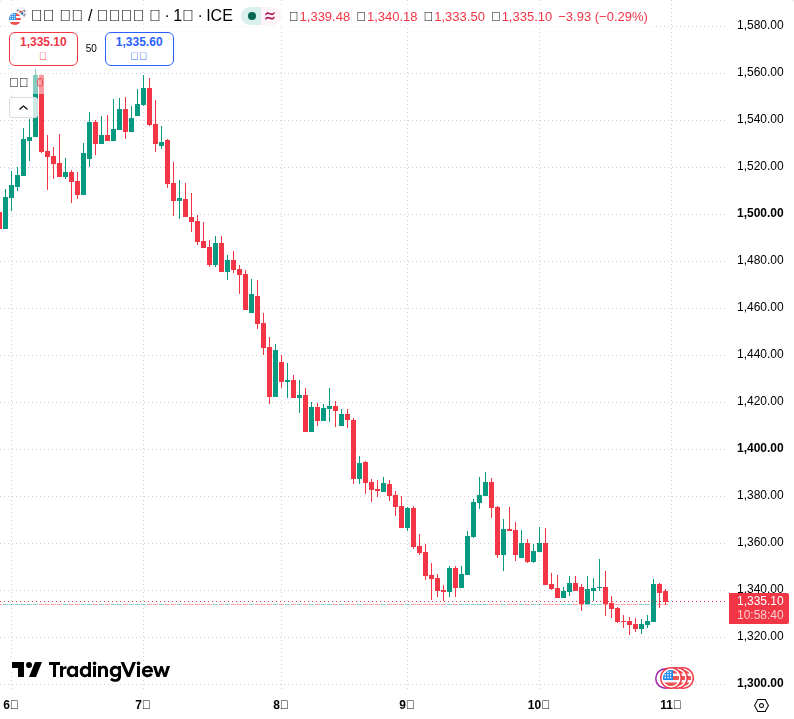
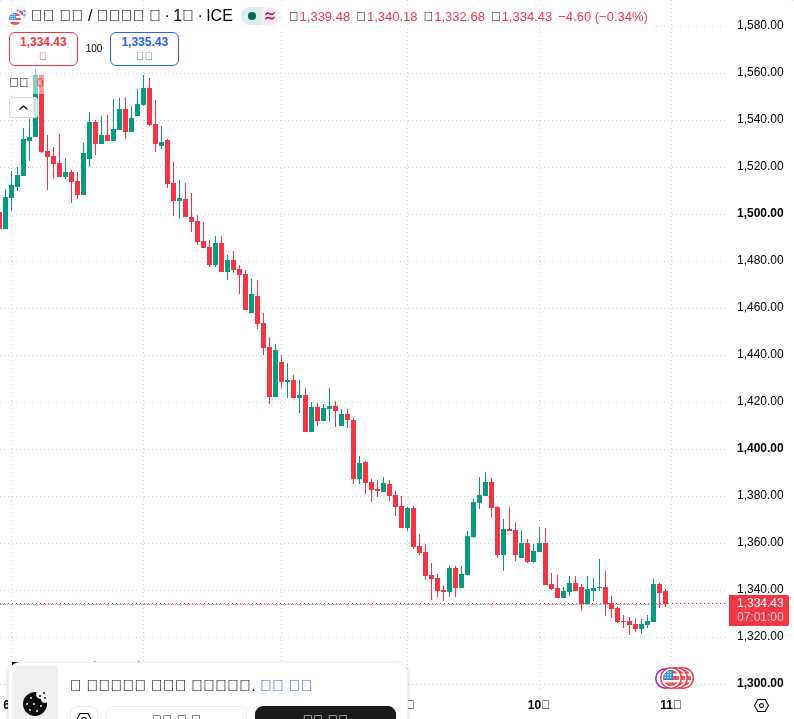
Auto-update blog preview, stock history, and charts [skip ci]

diff --git a/blog_preview.html b/blog_preview.html
@@ -2,7 +2,7 @@
 <html lang="ko">
 <head>
     <meta charset="UTF-8">
-    <title>10월 30일 경제 주요 흐름 및 종목 추천 특징주 분석 - 한미반도체, 삼성SDI, 엔비디아, 테슬라</title>
+    <title>10월 31일 경제 주요 흐름 및 종목 추천 특징주 분석 - 삼성바이오로직스, 삼성SDI, NVIDIA Corporation, Tesla, Inc.</title>
     <style>
         body { font-family: 'Apple SD Gothic Neo', sans-serif; max-width: 800px; margin: 40px auto; padding: 20px; line-height: 1.7; color: #333; }
         .timestamp-badge { background: #f1f3f5; color: #495057; font-size: 13px; padding: 6px 12px; border-radius: 20px; display: inline-block; margin-bottom: 15px; font-weight: bold; border: 1px solid #dee2e6; }
@@ -17,23 +17,23 @@
     </style>
 </head>
 <body>
-    <div class="timestamp-badge">⏱ 업데이트 시각: 2026년 10월 30일 20:01:13 (KST)</div>
+    <div class="timestamp-badge">⏱ 업데이트 시각: 2026년 10월 30일 23:56:27 (KST)</div>
     <h1>📊 자동 생성 블로그 포스팅 미리보기</h1>
     <p>우측 상단의 <b>[본문 복사]</b> 버튼을 누른 뒤 블로그 에디터에 붙여넣으세요!</p>
     <hr>
     
     <h3>📌 포스팅 제목</h3>
-    <div class="title-box">10월 30일 경제 주요 흐름 및 종목 추천 특징주 분석 - 한미반도체, 삼성SDI, 엔비디아, 테슬라</div>
+    <div class="title-box">10월 31일 경제 주요 흐름 및 종목 추천 특징주 분석 - 삼성바이오로직스, 삼성SDI, NVIDIA Corporation, Tesla, Inc.</div>
 
     <h3>📝 본문 텍스트 (차트 및 거시경제 링크 포함)</h3>
     <div class="content-container">
         <button class="copy-btn" onclick="copyContent()">📋 본문 복사</button>
-        <div class="content" id="blog-content">안녕하세요. 요즘 환율이 진짜 자기가 무슨 롤러코스터인 줄 아는지 위아래로 흔들어대서 화면 볼 때마다 멀미가 나는 것 같습니다...<br>주변에 주식 안 하는 친구들은 평화로워 보이는데 저만 매일 계좌 보면서 한숨 쉬는 것 같기도 하고 참 씁쓸하네요.<br>그래도 정신 바짝 차리고 오늘 장 마감한 거 바탕으로 지표 흐름이랑 쓸만한 종목들 싹 정리해왔으니까 같이 한번 살펴보시죠.<br><br>[경제 이슈]<br><br>원화 M2 통화량) https://tradingeconomics.com/south-korea/money-supply-m2<br>한국 경기선행지수 ) https://tradingeconomics.com/south-korea/leading-economic-index<br>달러 M2 통화량) https://tradingeconomics.com/united-states/money-supply-m2<br>미국 경기선행지수 ) https://tradingeconomics.com/united-states/leading-economic-index<br><br>통화량과 경기선행지수는 위 사이트에서 확인 가능합니다. 꾸준히 우상향 추세입니다.<br><br><div class="img-box"><img src="https://dhlee090512-arch.github.io/autoblog/assets/usdkrw_chart.png?t=1793358073" alt="환율 차트"></div><br><br>환율 차트를 보면 최근에 1,320원 선까지 쭈르륵 내려가다가 최근 들어서 다시 살짝 고개를 들면서 1,330원대 중반 부근에서 반등하는 흐름이 나오고 있습니다. 전반적으로 달러 약세 흐름을 타면서 하락세를 그리던 것이 단기 바닥을 찍고 기술적 반등을 시도하는 모양새인데, 연준의 금리 인하 속도 조절에 대한 경계감이랑 환율 당국의 개입 경계 매물 때문에 상단이 꽉 막혀있는 느낌입니다. 당분간은 환율이 1,330원 부근에서 눈치 보기 장세를 이어갈 것 같은데, 환율이 갑자기 튀어 오르면 외국인 수급이 빠져나갈 수 있어서 지수 플레이보다는 개별 종목 위주로 짧게 대응하는 게 유리해 보입니다.<br><br><div class="img-box"><img src="https://dhlee090512-arch.github.io/autoblog/assets/finviz_map.png?t=1793358073" alt="Finviz 섹터 맵"></div><br><br>핀비즈 맵을 확인해보면 테크놀로지 섹터가 전반적으로 아주 처참하게 두들겨 맞은 걸 볼 수 있습니다. 반도체 대장주인 엔비디아를 비롯해서 AMD, 인텔, 마이크론 같은 종목들이 전부 붉은색으로 찐하게 물들면서 조정을 세게 맞았고, 소프트웨어랑 커뮤니케이션 쪽도 구글이나 메타 같은 빅테크들이 약세를 면치 못했습니다. 반면에 헬스케어 섹터의 일라이릴리나 유나이티드헬스 같은 종목들은 초록색 불을 켜며 방어력을 보여줬고, 필수소비재나 일부 에너지 섹터도 소폭 반등하면서 자금이 안전지대로 잠시 대피한 느낌의 장세였습니다.<br><br><br>위 내용을 바탕으로 거시경제 상황을 정리하자면 국내는 통화량이나 경기선행지수가 나쁘지 않게 흘러가고 있지만 환율 변동성이랑 지정학적 리스크 때문에 투자 심리가 썩 좋지는 않은 상태입니다. 미장 역시 AI 고평가 논란이랑 실적 경계감 때문에 기술주들이 대거 조정을 받으면서 시장 전반에 찬물이 끼얹어진 분위기구요. 연준의 정책 방향도 아직 완전히 안심할 단계는 아니라서 무지성으로 비중을 늘리기보다는 다소 방어적인 태세를 유지하는 게 현명할 것 같습니다.<br><br>이럴 때일수록 급등주 쫓아다니다가 고점에 물리기 딱 좋으니까 차트에서 확실하게 바닥을 다지거나 지지 라인을 지켜주는 종목 위주로 짧게 스윙 관점 접근하는 게 마음 편할 것 같아요. 변동성이 워낙 지랄맞아서 손절가 칼같이 잡고 대응하는 트레이딩만이 살길인 것 같습니다.<br><br><br>[특징주 분석]<br><br>1. 한미반도체<br><br>(종목 차트)<br>(종목 트레이딩뷰 url)<br><br>첫 번째 국장 특징주는 한미반도체입니다. 최근에 135만 원대 부근에서 지지를 탄탄하게 확인하더니 최근 거래량이 평소보다 훨씬 터져주면서 전고점 부근을 시원하게 뚫어버리는 장대양봉이 꽂혔습니다. RSI는 59.47로 과열권은 아니면서도 상승 에너지를 충분히 품고 있는 중립 내지 강세 구간을 달리고 있습니다. MACD도 골든크로스를 유지하면서 일목구름대 위로 안착해 단기 상승 추세가 아주 가속화되는 모습입니다. 요즘 AI 반도체 테마가 다시 수급을 받는 모양인데 얘가 그 선두주자 역할을 톡톡히 하는 것 같아요. 진입 타점은 145만 원 부근의 눌림목을 노리는 게 좋고, 혹시라도 장이 밀려서 136만 원 선인 ATR 버퍼 검증 지지선을 이탈하면 손절하는 리스크 관리가 꼭 필요해 보입니다.<br><br>2. 삼성SDI<br><br>(종목 차트)<br>(종목 트레이딩뷰 url)<br><br>두 번째 국장 종목은 삼성SDI입니다. 최근에 48만 원대 바닥을 찍고 나서 완만한 우상향 파동을 그리다가 최근 조정 구간에서 20일 이동평균선과 겹치는 지지력을 테스트하며 매물대를 야무지게 흡수했습니다. 보조지표를 보면 RSI가 시그널선을 상향 돌파하려고 호시탐탐 노리고 있고 구름대 상단 위에서 가격 방어가 잘 이뤄지고 있어서 중기 추세는 살아있는 편입니다. 직전 고점인 59만 원 부근을 향해 올라가는 파동의 초입일 가능성이 높아 보여서 손익비가 꽤 쏠쏠한 자리입니다. 진입은 53만 원 중반대 눌림목에서 잡아보는 게 좋아 보이고, 만약 49만 원대 손절가를 깨고 내려간다면 과감하게 던지고 나오는 게 안전할 것 같습니다.<br><br>3. 엔비디아 (NVDA)<br><br>(종목 차트)<br>(종목 트레이딩뷰 url)<br><br>세 번째는 미장 대장의 품격인 엔비디아입니다. 최근 알파벳 실적 여파랑 빅테크들의 AI 인프라 투자 우려 때문에 단기 조정을 세게 맞으면서 120일선 부근까지 주가가 내려왔습니다. 기술적으로는 RSI가 40대 초반으로 훅 내려앉았고 MACD도 데드크로스가 나면서 상방 압력이 다소 빠진 상태입니다. 하지만 120일선이랑 직전 저점 라인이 워낙 튼튼한 하방 경직성을 만들어주고 있어서 공포에 던지기보다는 오히려 기회로 볼 수 있는 구간입니다. 현 주가 부근에서 분할 매수로 평단가를 낮추면서 209달러 정도를 눌림목 타점으로 잡고, 202달러 부근의 지지선이 깨지면 짧게 손절하는 식으로 타이트하게 대응하는 게 유리해 보입니다.<br><br>4. 테슬라 (TSLA)<br><br>(종목 차트)<br>(종목 트레이딩뷰 url)<br><br>마지막 미장 특징주는 테슬라입니다. 빅테크 전반이 헤매는 와중에도 거래대금이 꽤 짱짱하게 들어오면서 20일 이동평균선 부근에서 건전한 가격 조율을 거치고 있는 모습입니다. RSI는 63.03으로 여전히 상방 모멘텀을 탄탄하게 유지하고 있고 MACD 골든크로스도 살아있어서 추세적인 상승 압력이 센 편입니다. 최근 단기 고점을 찍고 내려오면서 20일선 지지력을 테스트하는 전형적인 눌림목 패턴이라 안전마진이 어느 정도 확보된 자리입니다. 395달러 부근을 진입 타점으로 잡고 381달러 부근의 손절선을 이탈하지 않는다면 1차적으로 423달러 라인까지 무난하게 반등을 노려볼 수 있을 것 같습니다.<br><br><br>오늘 장은 환율도 애매하고 미장 기술주들도 코피가 터져서 온갖 눈치 작전이 판을 치는 하루였습니다. 이럴 때일수록 뇌동매매 하지 말고 차트가 시키는 대로 자리 줄 때만 살짝 들어가서 용돈 벌고 나오는 게 최고인 것 같네요. 다들 계좌 방어 잘하시고 내일 또 살아남아서 뵙겠습니다.<br><br>읽어주셔서 감사합니다. 끗</div>
+        <div class="content" id="blog-content">안녕하세요. 아침부터 차트 보는데 환율이랑 지수가 또 사람 심장을 들었다 놨다 하네요 ㅋㅋ <br>주식 판에 들어온 이상 매일이 고난과 역경의 연속인 것 같습니다. <br>그래도 우리 살아남으려면 흐름이라도 잘 읽어야 하니까 오늘도 열심히 정리해온 내용 풀어보겠습니다.<br><br>[경제 이슈]<br><br>원화 M2 통화량) https://tradingeconomics.com/south-korea/money-supply-m2<br>한국 경기선행지수 ) https://tradingeconomics.com/south-korea/leading-economic-index<br>달러 M2 통화량) https://tradingeconomics.com/united-states/money-supply-m2<br>미국 경기선행지수 ) https://tradingeconomics.com/united-states/leading-economic-index<br><br>통화량과 경기선행지수는 위 사이트에서 확인 가능합니다. 꾸준히 우상향 추세입니다.<br><br><div class="img-box"><img src="assets/usdkrw_chart.png?t=1793372187" alt="환율 차트"></div><br><br>차트를 보면 최근 환율이 1,500원 대의 거대한 고점을 찍은 이후 계단식으로 쭈욱 내려와서 최근에는 1,330원 부근에서 바닥을 다지는 흐름을 보여주고 있습니다. 최근 캔들을 보면 살짝 반등하려는 시도가 보이긴 하는데, 전체적인 대세 하락 압력이 워낙 셌던 터라 당분간은 1,320원 선을 강력한 지지선으로 두고 눈치 보기 장세가 이어질 것 같아요. 외환당국의 경계감도 있고 연준의 금리 정책 불확실성도 겹쳐 있어서 환율이 갑자기 위로 튀어 오를 리스크는 항상 열어두고 매매하는 게 안전할 것 같습니다.<br><br><div class="img-box"><img src="assets/finviz_map.png?t=1793372187" alt="Finviz 섹터 맵"></div><br><br>핀비즈 맵을 보면 오늘 시장은 아주 그냥 피바다가 따로 없네요... 테크랑 반도체 섹터가 아주 시뻘겋게 두들겨 맞고 있는 모습입니다. 엔비디아(-3.16%), AMD(-9.14%), 인텔(-27.89% 폭스...) 등 대형 반도체주들이 엄청난 하락세를 기록 중이고, 마이크로소프트나 구글 같은 빅테크들도 일제히 약세를 보였습니다. 반면에 헬스케어 섹터나 일부 필수소비재(코카콜라, 월마트 등)는 초록색 불을 켜며 방어적인 흐름을 보여주었고, 에너지나 소재 쪽 일부 종목들도 선방하는 모습이 눈에 띱니다.<br><br>위 내용을 바탕으로 거시경제 상황을 정리하자면, 국내외 통화량이나 경기선행지수 같은 지표들은 장기적으로 우상향하고 있지만 당장의 시장 분위기는 대형 기술주들의 실적 노이즈와 AI 거품론 때문에 상당히 얼어붙어 있습니다. 미장은 빅테크 실적 쇼크 여파로 나스닥 중심의 매물이 쏟아지고 있고, 국장 역시 환율 변동성과 금리 인하 지연 우려가 겹치면서 외인 수급이 적극적으로 들어오기 힘든 환경인 것 같아요. <br><br>이럴 때일수록 무리하게 대형 기술주 추격 매수하기보다는 차트에서 바닥을 잘 다지고 개별 모멘텀이 있는 종목들 위주로 짧게 스윙 관점으로 접근하는 게 훨씬 현명해 보입니다. 시장이 워낙 변동성이 크니까 손절가 꽉 잡고 짧게 먹고 나오는 트레이딩 전략으로 살아남아봅시다 ㅜㅜ<br><br><br>[특징주 분석]<br><br>1. 삼성바이오로직스<br><br><div class="img-box"><img src="assets/chart_207940.png?t=1793372187" alt="삼성바이오로직스 차트"></div><br>https://www.tradingview.com/symbols/KRX-207940/<br><br>첫 번째 국장 종목은 삼성바이오로직스입니다. 최근 조정을 깔끔하게 마무리하고 135만 원 선에서 바닥을 다진 뒤에, 최근 거래량을 대거 동반하면서 직전 저항선을 시원하게 뚫어버리는 장대양봉 고가 마감이 나왔습니다. 기술적으로 보면 MACD 골든크로스가 발생하고 RSI도 59.47로 우상향 모멘텀을 강하게 뿜어내고 있어서 추가 상승 여력이 매우 높아 보입니다. 일목구름대 위로 안착한 모습도 아주 든든하네요. 진입 타점은 1,457,000원 부근의 눌림목을 노리는 게 좋아 보이고, 손절가는 ATR 버퍼를 감안해서 1,375,000원 선을 이탈하면 리스크 관리 차원에서 깔끔하게 물량을 던지는 게 안전할 것 같습니다.<br><br>2. 삼성SDI<br><br><div class="img-box"><img src="assets/chart_006400.png?t=1793372187" alt="삼성SDI 차트"></div><br>https://www.tradingview.com/symbols/KRX-006400/<br><br>두 번째 국장 종목은 삼성SDI입니다. 단기 변동성을 겪다가 48만 3천 원대 저점을 찍고서 최근 저점을 높여가며 반등 파동을 예쁘게 그리고 있습니다. 20일 이동평균선 부근에서 지지력을 테스트하고 있는 과정이라 매수하기에 손익비가 꽤 괜찮은 자리를 주고 있네요. RSI도 51.79로 중립 부근에서 시그널을 위로 향하고 있지만, MACD는 아직 단기 데드크로스 혼조세가 살짝 섞여 있으므로 풀시드 박기보다는 분할 매수로 접근하는 게 필수적입니다. 추천 진입 타점은 532,000원 정도로 잡고, 490,000원 부근의 지지선을 손절선으로 잡고 대응하면 리스크 대비 기대 수익이 쏠쏠할 것으로 보입니다.<br><br>3. NVIDIA Corporation<br><br><div class="img-box"><img src="assets/chart_NVDA.png?t=1793372187" alt="NVIDIA Corporation 차트"></div><br>https://www.tradingview.com/symbols/NASDAQ-NVDA/<br><br>세 번째 미장 종목은 엔비디아입니다. 알파벳을 비롯한 빅테크들의 실적 여파와 AI 투자 비용 우려 때문에 최근 주가가 120일선 부근까지 꽤 깊게 조정을 맞았습니다. RSI가 36.08까지 떨어지면서 과매도 국면에 바짝 다가간 상태인데, 역배열 진행 중이긴 해도 핵심 AI 인프라 수요는 여전히 탄탄하기 때문에 낙폭 과대에 따른 기술적 반등이 나올 타이밍이 됐습니다. 공격적으로 전 재산을 박기보다는 분할 매수로 접근해야 하는 구간입니다. 추천 진입가는 202.01달러 부근의 눌림목 타점으로 보고, 195.81달러를 손절선으로 잡고 이탈하면 잠시 도망치는 게 현명해 보입니다.<br><br>4. Tesla, Inc.<br><br><div class="img-box"><img src="assets/chart_TSLA.png?t=1793372187" alt="Tesla, Inc. 차트"></div><br>https://www.tradingview.com/symbols/NASDAQ-TSLA/<br><br>네 번째 미장 종목은 테슬라입니다. 전반적인 기술주 분위기가 나락을 가는 와중에도 테슬라는 단기 박스권 상단에서 버텨주면서 월스트리트의 탄탄한 거래대금을 증명하고 있습니다. RSI도 59.9로 과매수에 빠지지 않은 채 건강하게 상향 모멘텀을 유지하고 있고 MACD도 골든크로스를 지키는 중입니다. 단기 고점을 터치하고 소폭 조정받는 지금이 오히려 기회일 수 있어요. 390.22달러 부근을 눌림목 지지 타점으로 잡고, 375.90달러를 손절선으로 설정해서 칼같이 리스크를 관리하는 트레이딩이 좋아 보입니다.<br><br><br>요즘 장세가 지수만 믿고 가기에는 양쪽 다 너무 매운맛이라 정신 바짝 차려야 합니다. <br>그래도 자리 예쁘게 나오는 애들만 골라서 짧게 발 빼고 나오면 또 먹을 자리는 주니까 너무 상심하지 마시고요.<br>내일도 살아남아서 쓸만한 정보들 가지고 찾아오겠습니당. <br><br>읽어주셔서 감사합니다. 끗</div>
     </div>
 
     <script>
         function copyContent() {
-            const textToCopy = "\uc548\ub155\ud558\uc138\uc694. \uc694\uc998 \ud658\uc728\uc774 \uc9c4\uc9dc \uc790\uae30\uac00 \ubb34\uc2a8 \ub864\ub7ec\ucf54\uc2a4\ud130\uc778 \uc904 \uc544\ub294\uc9c0 \uc704\uc544\ub798\ub85c \ud754\ub4e4\uc5b4\ub300\uc11c \ud654\uba74 \ubcfc \ub54c\ub9c8\ub2e4 \uba40\ubbf8\uac00 \ub098\ub294 \uac83 \uac19\uc2b5\ub2c8\ub2e4...\n\uc8fc\ubcc0\uc5d0 \uc8fc\uc2dd \uc548 \ud558\ub294 \uce5c\uad6c\ub4e4\uc740 \ud3c9\ud654\ub85c\uc6cc \ubcf4\uc774\ub294\ub370 \uc800\ub9cc \ub9e4\uc77c \uacc4\uc88c \ubcf4\uba74\uc11c \ud55c\uc228 \uc26c\ub294 \uac83 \uac19\uae30\ub3c4 \ud558\uace0 \ucc38 \uc501\uc4f8\ud558\ub124\uc694.\n\uadf8\ub798\ub3c4 \uc815\uc2e0 \ubc14\uc9dd \ucc28\ub9ac\uace0 \uc624\ub298 \uc7a5 \ub9c8\uac10\ud55c \uac70 \ubc14\ud0d5\uc73c\ub85c \uc9c0\ud45c \ud750\ub984\uc774\ub791 \uc4f8\ub9cc\ud55c \uc885\ubaa9\ub4e4 \uc2f9 \uc815\ub9ac\ud574\uc654\uc73c\ub2c8\uae4c \uac19\uc774 \ud55c\ubc88 \uc0b4\ud3b4\ubcf4\uc2dc\uc8e0.\n\n[\uacbd\uc81c \uc774\uc288]\n\n\uc6d0\ud654 M2 \ud1b5\ud654\ub7c9) https://tradingeconomics.com/south-korea/money-supply-m2\n\ud55c\uad6d \uacbd\uae30\uc120\ud589\uc9c0\uc218 ) https://tradingeconomics.com/south-korea/leading-economic-index\n\ub2ec\ub7ec M2 \ud1b5\ud654\ub7c9) https://tradingeconomics.com/united-states/money-supply-m2\n\ubbf8\uad6d \uacbd\uae30\uc120\ud589\uc9c0\uc218 ) https://tradingeconomics.com/united-states/leading-economic-index\n\n\ud1b5\ud654\ub7c9\uacfc \uacbd\uae30\uc120\ud589\uc9c0\uc218\ub294 \uc704 \uc0ac\uc774\ud2b8\uc5d0\uc11c \ud655\uc778 \uac00\ub2a5\ud569\ub2c8\ub2e4. \uafb8\uc900\ud788 \uc6b0\uc0c1\ud5a5 \ucd94\uc138\uc785\ub2c8\ub2e4.\n\n<div class=\"img-box\"><img src=\"https://dhlee090512-arch.github.io/autoblog/assets/usdkrw_chart.png?t=1793358073\" alt=\"\ud658\uc728 \ucc28\ud2b8\"></div>\n\n\ud658\uc728 \ucc28\ud2b8\ub97c \ubcf4\uba74 \ucd5c\uadfc\uc5d0 1,320\uc6d0 \uc120\uae4c\uc9c0 \ucb48\ub974\ub975 \ub0b4\ub824\uac00\ub2e4\uac00 \ucd5c\uadfc \ub4e4\uc5b4\uc11c \ub2e4\uc2dc \uc0b4\uc9dd \uace0\uac1c\ub97c \ub4e4\uba74\uc11c 1,330\uc6d0\ub300 \uc911\ubc18 \ubd80\uadfc\uc5d0\uc11c \ubc18\ub4f1\ud558\ub294 \ud750\ub984\uc774 \ub098\uc624\uace0 \uc788\uc2b5\ub2c8\ub2e4. \uc804\ubc18\uc801\uc73c\ub85c \ub2ec\ub7ec \uc57d\uc138 \ud750\ub984\uc744 \ud0c0\uba74\uc11c \ud558\ub77d\uc138\ub97c \uadf8\ub9ac\ub358 \uac83\uc774 \ub2e8\uae30 \ubc14\ub2e5\uc744 \ucc0d\uace0 \uae30\uc220\uc801 \ubc18\ub4f1\uc744 \uc2dc\ub3c4\ud558\ub294 \ubaa8\uc591\uc0c8\uc778\ub370, \uc5f0\uc900\uc758 \uae08\ub9ac \uc778\ud558 \uc18d\ub3c4 \uc870\uc808\uc5d0 \ub300\ud55c \uacbd\uacc4\uac10\uc774\ub791 \ud658\uc728 \ub2f9\uad6d\uc758 \uac1c\uc785 \uacbd\uacc4 \ub9e4\ubb3c \ub54c\ubb38\uc5d0 \uc0c1\ub2e8\uc774 \uaf49 \ub9c9\ud600\uc788\ub294 \ub290\ub08c\uc785\ub2c8\ub2e4. \ub2f9\ubd84\uac04\uc740 \ud658\uc728\uc774 1,330\uc6d0 \ubd80\uadfc\uc5d0\uc11c \ub208\uce58 \ubcf4\uae30 \uc7a5\uc138\ub97c \uc774\uc5b4\uac08 \uac83 \uac19\uc740\ub370, \ud658\uc728\uc774 \uac11\uc790\uae30 \ud280\uc5b4 \uc624\ub974\uba74 \uc678\uad6d\uc778 \uc218\uae09\uc774 \ube60\uc838\ub098\uac08 \uc218 \uc788\uc5b4\uc11c \uc9c0\uc218 \ud50c\ub808\uc774\ubcf4\ub2e4\ub294 \uac1c\ubcc4 \uc885\ubaa9 \uc704\uc8fc\ub85c \uc9e7\uac8c \ub300\uc751\ud558\ub294 \uac8c \uc720\ub9ac\ud574 \ubcf4\uc785\ub2c8\ub2e4.\n\n<div class=\"img-box\"><img src=\"https://dhlee090512-arch.github.io/autoblog/assets/finviz_map.png?t=1793358073\" alt=\"Finviz \uc139\ud130 \ub9f5\"></div>\n\n\ud540\ube44\uc988 \ub9f5\uc744 \ud655\uc778\ud574\ubcf4\uba74 \ud14c\ud06c\ub180\ub85c\uc9c0 \uc139\ud130\uac00 \uc804\ubc18\uc801\uc73c\ub85c \uc544\uc8fc \ucc98\ucc38\ud558\uac8c \ub450\ub4e4\uaca8 \ub9de\uc740 \uac78 \ubcfc \uc218 \uc788\uc2b5\ub2c8\ub2e4. \ubc18\ub3c4\uccb4 \ub300\uc7a5\uc8fc\uc778 \uc5d4\ube44\ub514\uc544\ub97c \ube44\ub86f\ud574\uc11c AMD, \uc778\ud154, \ub9c8\uc774\ud06c\ub860 \uac19\uc740 \uc885\ubaa9\ub4e4\uc774 \uc804\ubd80 \ubd89\uc740\uc0c9\uc73c\ub85c \ucc10\ud558\uac8c \ubb3c\ub4e4\uba74\uc11c \uc870\uc815\uc744 \uc138\uac8c \ub9de\uc558\uace0, \uc18c\ud504\ud2b8\uc6e8\uc5b4\ub791 \ucee4\ubba4\ub2c8\ucf00\uc774\uc158 \ucabd\ub3c4 \uad6c\uae00\uc774\ub098 \uba54\ud0c0 \uac19\uc740 \ube45\ud14c\ud06c\ub4e4\uc774 \uc57d\uc138\ub97c \uba74\uce58 \ubabb\ud588\uc2b5\ub2c8\ub2e4. \ubc18\uba74\uc5d0 \ud5ec\uc2a4\ucf00\uc5b4 \uc139\ud130\uc758 \uc77c\ub77c\uc774\ub9b4\ub9ac\ub098 \uc720\ub098\uc774\ud2f0\ub4dc\ud5ec\uc2a4 \uac19\uc740 \uc885\ubaa9\ub4e4\uc740 \ucd08\ub85d\uc0c9 \ubd88\uc744 \ucf1c\uba70 \ubc29\uc5b4\ub825\uc744 \ubcf4\uc5ec\uc92c\uace0, \ud544\uc218\uc18c\ube44\uc7ac\ub098 \uc77c\ubd80 \uc5d0\ub108\uc9c0 \uc139\ud130\ub3c4 \uc18c\ud3ed \ubc18\ub4f1\ud558\uba74\uc11c \uc790\uae08\uc774 \uc548\uc804\uc9c0\ub300\ub85c \uc7a0\uc2dc \ub300\ud53c\ud55c \ub290\ub08c\uc758 \uc7a5\uc138\uc600\uc2b5\ub2c8\ub2e4.\n\n\n\uc704 \ub0b4\uc6a9\uc744 \ubc14\ud0d5\uc73c\ub85c \uac70\uc2dc\uacbd\uc81c \uc0c1\ud669\uc744 \uc815\ub9ac\ud558\uc790\uba74 \uad6d\ub0b4\ub294 \ud1b5\ud654\ub7c9\uc774\ub098 \uacbd\uae30\uc120\ud589\uc9c0\uc218\uac00 \ub098\uc058\uc9c0 \uc54a\uac8c \ud758\ub7ec\uac00\uace0 \uc788\uc9c0\ub9cc \ud658\uc728 \ubcc0\ub3d9\uc131\uc774\ub791 \uc9c0\uc815\ud559\uc801 \ub9ac\uc2a4\ud06c \ub54c\ubb38\uc5d0 \ud22c\uc790 \uc2ec\ub9ac\uac00 \uc369 \uc88b\uc9c0\ub294 \uc54a\uc740 \uc0c1\ud0dc\uc785\ub2c8\ub2e4. \ubbf8\uc7a5 \uc5ed\uc2dc AI \uace0\ud3c9\uac00 \ub17c\ub780\uc774\ub791 \uc2e4\uc801 \uacbd\uacc4\uac10 \ub54c\ubb38\uc5d0 \uae30\uc220\uc8fc\ub4e4\uc774 \ub300\uac70 \uc870\uc815\uc744 \ubc1b\uc73c\uba74\uc11c \uc2dc\uc7a5 \uc804\ubc18\uc5d0 \ucc2c\ubb3c\uc774 \ub07c\uc5b9\uc5b4\uc9c4 \ubd84\uc704\uae30\uad6c\uc694. \uc5f0\uc900\uc758 \uc815\ucc45 \ubc29\ud5a5\ub3c4 \uc544\uc9c1 \uc644\uc804\ud788 \uc548\uc2ec\ud560 \ub2e8\uacc4\ub294 \uc544\ub2c8\ub77c\uc11c \ubb34\uc9c0\uc131\uc73c\ub85c \ube44\uc911\uc744 \ub298\ub9ac\uae30\ubcf4\ub2e4\ub294 \ub2e4\uc18c \ubc29\uc5b4\uc801\uc778 \ud0dc\uc138\ub97c \uc720\uc9c0\ud558\ub294 \uac8c \ud604\uba85\ud560 \uac83 \uac19\uc2b5\ub2c8\ub2e4.\n\n\uc774\ub7f4 \ub54c\uc77c\uc218\ub85d \uae09\ub4f1\uc8fc \ucad3\uc544\ub2e4\ub2c8\ub2e4\uac00 \uace0\uc810\uc5d0 \ubb3c\ub9ac\uae30 \ub531 \uc88b\uc73c\ub2c8\uae4c \ucc28\ud2b8\uc5d0\uc11c \ud655\uc2e4\ud558\uac8c \ubc14\ub2e5\uc744 \ub2e4\uc9c0\uac70\ub098 \uc9c0\uc9c0 \ub77c\uc778\uc744 \uc9c0\ucf1c\uc8fc\ub294 \uc885\ubaa9 \uc704\uc8fc\ub85c \uc9e7\uac8c \uc2a4\uc719 \uad00\uc810 \uc811\uadfc\ud558\ub294 \uac8c \ub9c8\uc74c \ud3b8\ud560 \uac83 \uac19\uc544\uc694. \ubcc0\ub3d9\uc131\uc774 \uc6cc\ub099 \uc9c0\ub784\ub9de\uc544\uc11c \uc190\uc808\uac00 \uce7c\uac19\uc774 \uc7a1\uace0 \ub300\uc751\ud558\ub294 \ud2b8\ub808\uc774\ub529\ub9cc\uc774 \uc0b4\uae38\uc778 \uac83 \uac19\uc2b5\ub2c8\ub2e4.\n\n\n[\ud2b9\uc9d5\uc8fc \ubd84\uc11d]\n\n1. \ud55c\ubbf8\ubc18\ub3c4\uccb4\n\n(\uc885\ubaa9 \ucc28\ud2b8)\n(\uc885\ubaa9 \ud2b8\ub808\uc774\ub529\ubdf0 url)\n\n\uccab \ubc88\uc9f8 \uad6d\uc7a5 \ud2b9\uc9d5\uc8fc\ub294 \ud55c\ubbf8\ubc18\ub3c4\uccb4\uc785\ub2c8\ub2e4. \ucd5c\uadfc\uc5d0 135\ub9cc \uc6d0\ub300 \ubd80\uadfc\uc5d0\uc11c \uc9c0\uc9c0\ub97c \ud0c4\ud0c4\ud558\uac8c \ud655\uc778\ud558\ub354\ub2c8 \ucd5c\uadfc \uac70\ub798\ub7c9\uc774 \ud3c9\uc18c\ubcf4\ub2e4 \ud6e8\uc52c \ud130\uc838\uc8fc\uba74\uc11c \uc804\uace0\uc810 \ubd80\uadfc\uc744 \uc2dc\uc6d0\ud558\uac8c \ub6ab\uc5b4\ubc84\ub9ac\ub294 \uc7a5\ub300\uc591\ubd09\uc774 \uaf42\ud614\uc2b5\ub2c8\ub2e4. RSI\ub294 59.47\ub85c \uacfc\uc5f4\uad8c\uc740 \uc544\ub2c8\uba74\uc11c\ub3c4 \uc0c1\uc2b9 \uc5d0\ub108\uc9c0\ub97c \ucda9\ubd84\ud788 \ud488\uace0 \uc788\ub294 \uc911\ub9bd \ub0b4\uc9c0 \uac15\uc138 \uad6c\uac04\uc744 \ub2ec\ub9ac\uace0 \uc788\uc2b5\ub2c8\ub2e4. MACD\ub3c4 \uace8\ub4e0\ud06c\ub85c\uc2a4\ub97c \uc720\uc9c0\ud558\uba74\uc11c \uc77c\ubaa9\uad6c\ub984\ub300 \uc704\ub85c \uc548\ucc29\ud574 \ub2e8\uae30 \uc0c1\uc2b9 \ucd94\uc138\uac00 \uc544\uc8fc \uac00\uc18d\ud654\ub418\ub294 \ubaa8\uc2b5\uc785\ub2c8\ub2e4. \uc694\uc998 AI \ubc18\ub3c4\uccb4 \ud14c\ub9c8\uac00 \ub2e4\uc2dc \uc218\uae09\uc744 \ubc1b\ub294 \ubaa8\uc591\uc778\ub370 \uc598\uac00 \uadf8 \uc120\ub450\uc8fc\uc790 \uc5ed\ud560\uc744 \ud1a1\ud1a1\ud788 \ud558\ub294 \uac83 \uac19\uc544\uc694. \uc9c4\uc785 \ud0c0\uc810\uc740 145\ub9cc \uc6d0 \ubd80\uadfc\uc758 \ub20c\ub9bc\ubaa9\uc744 \ub178\ub9ac\ub294 \uac8c \uc88b\uace0, \ud639\uc2dc\ub77c\ub3c4 \uc7a5\uc774 \ubc00\ub824\uc11c 136\ub9cc \uc6d0 \uc120\uc778 ATR \ubc84\ud37c \uac80\uc99d \uc9c0\uc9c0\uc120\uc744 \uc774\ud0c8\ud558\uba74 \uc190\uc808\ud558\ub294 \ub9ac\uc2a4\ud06c \uad00\ub9ac\uac00 \uaf2d \ud544\uc694\ud574 \ubcf4\uc785\ub2c8\ub2e4.\n\n2. \uc0bc\uc131SDI\n\n(\uc885\ubaa9 \ucc28\ud2b8)\n(\uc885\ubaa9 \ud2b8\ub808\uc774\ub529\ubdf0 url)\n\n\ub450 \ubc88\uc9f8 \uad6d\uc7a5 \uc885\ubaa9\uc740 \uc0bc\uc131SDI\uc785\ub2c8\ub2e4. \ucd5c\uadfc\uc5d0 48\ub9cc \uc6d0\ub300 \ubc14\ub2e5\uc744 \ucc0d\uace0 \ub098\uc11c \uc644\ub9cc\ud55c \uc6b0\uc0c1\ud5a5 \ud30c\ub3d9\uc744 \uadf8\ub9ac\ub2e4\uac00 \ucd5c\uadfc \uc870\uc815 \uad6c\uac04\uc5d0\uc11c 20\uc77c \uc774\ub3d9\ud3c9\uade0\uc120\uacfc \uacb9\uce58\ub294 \uc9c0\uc9c0\ub825\uc744 \ud14c\uc2a4\ud2b8\ud558\uba70 \ub9e4\ubb3c\ub300\ub97c \uc57c\ubb34\uc9c0\uac8c \ud761\uc218\ud588\uc2b5\ub2c8\ub2e4. \ubcf4\uc870\uc9c0\ud45c\ub97c \ubcf4\uba74 RSI\uac00 \uc2dc\uadf8\ub110\uc120\uc744 \uc0c1\ud5a5 \ub3cc\ud30c\ud558\ub824\uace0 \ud638\uc2dc\ud0d0\ud0d0 \ub178\ub9ac\uace0 \uc788\uace0 \uad6c\ub984\ub300 \uc0c1\ub2e8 \uc704\uc5d0\uc11c \uac00\uaca9 \ubc29\uc5b4\uac00 \uc798 \uc774\ub904\uc9c0\uace0 \uc788\uc5b4\uc11c \uc911\uae30 \ucd94\uc138\ub294 \uc0b4\uc544\uc788\ub294 \ud3b8\uc785\ub2c8\ub2e4. \uc9c1\uc804 \uace0\uc810\uc778 59\ub9cc \uc6d0 \ubd80\uadfc\uc744 \ud5a5\ud574 \uc62c\ub77c\uac00\ub294 \ud30c\ub3d9\uc758 \ucd08\uc785\uc77c \uac00\ub2a5\uc131\uc774 \ub192\uc544 \ubcf4\uc5ec\uc11c \uc190\uc775\ube44\uac00 \uaf64 \uc3e0\uc3e0\ud55c \uc790\ub9ac\uc785\ub2c8\ub2e4. \uc9c4\uc785\uc740 53\ub9cc \uc6d0 \uc911\ubc18\ub300 \ub20c\ub9bc\ubaa9\uc5d0\uc11c \uc7a1\uc544\ubcf4\ub294 \uac8c \uc88b\uc544 \ubcf4\uc774\uace0, \ub9cc\uc57d 49\ub9cc \uc6d0\ub300 \uc190\uc808\uac00\ub97c \uae68\uace0 \ub0b4\ub824\uac04\ub2e4\uba74 \uacfc\uac10\ud558\uac8c \ub358\uc9c0\uace0 \ub098\uc624\ub294 \uac8c \uc548\uc804\ud560 \uac83 \uac19\uc2b5\ub2c8\ub2e4.\n\n3. \uc5d4\ube44\ub514\uc544 (NVDA)\n\n(\uc885\ubaa9 \ucc28\ud2b8)\n(\uc885\ubaa9 \ud2b8\ub808\uc774\ub529\ubdf0 url)\n\n\uc138 \ubc88\uc9f8\ub294 \ubbf8\uc7a5 \ub300\uc7a5\uc758 \ud488\uaca9\uc778 \uc5d4\ube44\ub514\uc544\uc785\ub2c8\ub2e4. \ucd5c\uadfc \uc54c\ud30c\ubcb3 \uc2e4\uc801 \uc5ec\ud30c\ub791 \ube45\ud14c\ud06c\ub4e4\uc758 AI \uc778\ud504\ub77c \ud22c\uc790 \uc6b0\ub824 \ub54c\ubb38\uc5d0 \ub2e8\uae30 \uc870\uc815\uc744 \uc138\uac8c \ub9de\uc73c\uba74\uc11c 120\uc77c\uc120 \ubd80\uadfc\uae4c\uc9c0 \uc8fc\uac00\uac00 \ub0b4\ub824\uc654\uc2b5\ub2c8\ub2e4. \uae30\uc220\uc801\uc73c\ub85c\ub294 RSI\uac00 40\ub300 \ucd08\ubc18\uc73c\ub85c \ud6c5 \ub0b4\ub824\uc549\uc558\uace0 MACD\ub3c4 \ub370\ub4dc\ud06c\ub85c\uc2a4\uac00 \ub098\uba74\uc11c \uc0c1\ubc29 \uc555\ub825\uc774 \ub2e4\uc18c \ube60\uc9c4 \uc0c1\ud0dc\uc785\ub2c8\ub2e4. \ud558\uc9c0\ub9cc 120\uc77c\uc120\uc774\ub791 \uc9c1\uc804 \uc800\uc810 \ub77c\uc778\uc774 \uc6cc\ub099 \ud2bc\ud2bc\ud55c \ud558\ubc29 \uacbd\uc9c1\uc131\uc744 \ub9cc\ub4e4\uc5b4\uc8fc\uace0 \uc788\uc5b4\uc11c \uacf5\ud3ec\uc5d0 \ub358\uc9c0\uae30\ubcf4\ub2e4\ub294 \uc624\ud788\ub824 \uae30\ud68c\ub85c \ubcfc \uc218 \uc788\ub294 \uad6c\uac04\uc785\ub2c8\ub2e4. \ud604 \uc8fc\uac00 \ubd80\uadfc\uc5d0\uc11c \ubd84\ud560 \ub9e4\uc218\ub85c \ud3c9\ub2e8\uac00\ub97c \ub0ae\ucd94\uba74\uc11c 209\ub2ec\ub7ec \uc815\ub3c4\ub97c \ub20c\ub9bc\ubaa9 \ud0c0\uc810\uc73c\ub85c \uc7a1\uace0, 202\ub2ec\ub7ec \ubd80\uadfc\uc758 \uc9c0\uc9c0\uc120\uc774 \uae68\uc9c0\uba74 \uc9e7\uac8c \uc190\uc808\ud558\ub294 \uc2dd\uc73c\ub85c \ud0c0\uc774\ud2b8\ud558\uac8c \ub300\uc751\ud558\ub294 \uac8c \uc720\ub9ac\ud574 \ubcf4\uc785\ub2c8\ub2e4.\n\n4. \ud14c\uc2ac\ub77c (TSLA)\n\n(\uc885\ubaa9 \ucc28\ud2b8)\n(\uc885\ubaa9 \ud2b8\ub808\uc774\ub529\ubdf0 url)\n\n\ub9c8\uc9c0\ub9c9 \ubbf8\uc7a5 \ud2b9\uc9d5\uc8fc\ub294 \ud14c\uc2ac\ub77c\uc785\ub2c8\ub2e4. \ube45\ud14c\ud06c \uc804\ubc18\uc774 \ud5e4\ub9e4\ub294 \uc640\uc911\uc5d0\ub3c4 \uac70\ub798\ub300\uae08\uc774 \uaf64 \uc9f1\uc9f1\ud558\uac8c \ub4e4\uc5b4\uc624\uba74\uc11c 20\uc77c \uc774\ub3d9\ud3c9\uade0\uc120 \ubd80\uadfc\uc5d0\uc11c \uac74\uc804\ud55c \uac00\uaca9 \uc870\uc728\uc744 \uac70\uce58\uace0 \uc788\ub294 \ubaa8\uc2b5\uc785\ub2c8\ub2e4. RSI\ub294 63.03\uc73c\ub85c \uc5ec\uc804\ud788 \uc0c1\ubc29 \ubaa8\uba58\ud140\uc744 \ud0c4\ud0c4\ud558\uac8c \uc720\uc9c0\ud558\uace0 \uc788\uace0 MACD \uace8\ub4e0\ud06c\ub85c\uc2a4\ub3c4 \uc0b4\uc544\uc788\uc5b4\uc11c \ucd94\uc138\uc801\uc778 \uc0c1\uc2b9 \uc555\ub825\uc774 \uc13c \ud3b8\uc785\ub2c8\ub2e4. \ucd5c\uadfc \ub2e8\uae30 \uace0\uc810\uc744 \ucc0d\uace0 \ub0b4\ub824\uc624\uba74\uc11c 20\uc77c\uc120 \uc9c0\uc9c0\ub825\uc744 \ud14c\uc2a4\ud2b8\ud558\ub294 \uc804\ud615\uc801\uc778 \ub20c\ub9bc\ubaa9 \ud328\ud134\uc774\ub77c \uc548\uc804\ub9c8\uc9c4\uc774 \uc5b4\ub290 \uc815\ub3c4 \ud655\ubcf4\ub41c \uc790\ub9ac\uc785\ub2c8\ub2e4. 395\ub2ec\ub7ec \ubd80\uadfc\uc744 \uc9c4\uc785 \ud0c0\uc810\uc73c\ub85c \uc7a1\uace0 381\ub2ec\ub7ec \ubd80\uadfc\uc758 \uc190\uc808\uc120\uc744 \uc774\ud0c8\ud558\uc9c0 \uc54a\ub294\ub2e4\uba74 1\ucc28\uc801\uc73c\ub85c 423\ub2ec\ub7ec \ub77c\uc778\uae4c\uc9c0 \ubb34\ub09c\ud558\uac8c \ubc18\ub4f1\uc744 \ub178\ub824\ubcfc \uc218 \uc788\uc744 \uac83 \uac19\uc2b5\ub2c8\ub2e4.\n\n\n\uc624\ub298 \uc7a5\uc740 \ud658\uc728\ub3c4 \uc560\ub9e4\ud558\uace0 \ubbf8\uc7a5 \uae30\uc220\uc8fc\ub4e4\ub3c4 \ucf54\ud53c\uac00 \ud130\uc838\uc11c \uc628\uac16 \ub208\uce58 \uc791\uc804\uc774 \ud310\uc744 \uce58\ub294 \ud558\ub8e8\uc600\uc2b5\ub2c8\ub2e4. \uc774\ub7f4 \ub54c\uc77c\uc218\ub85d \ub1cc\ub3d9\ub9e4\ub9e4 \ud558\uc9c0 \ub9d0\uace0 \ucc28\ud2b8\uac00 \uc2dc\ud0a4\ub294 \ub300\ub85c \uc790\ub9ac \uc904 \ub54c\ub9cc \uc0b4\uc9dd \ub4e4\uc5b4\uac00\uc11c \uc6a9\ub3c8 \ubc8c\uace0 \ub098\uc624\ub294 \uac8c \ucd5c\uace0\uc778 \uac83 \uac19\ub124\uc694. \ub2e4\ub4e4 \uacc4\uc88c \ubc29\uc5b4 \uc798\ud558\uc2dc\uace0 \ub0b4\uc77c \ub610 \uc0b4\uc544\ub0a8\uc544\uc11c \ubd59\uaca0\uc2b5\ub2c8\ub2e4.\n\n\uc77d\uc5b4\uc8fc\uc154\uc11c \uac10\uc0ac\ud569\ub2c8\ub2e4. \ub057";
+            const textToCopy = "\uc548\ub155\ud558\uc138\uc694. \uc544\uce68\ubd80\ud130 \ucc28\ud2b8 \ubcf4\ub294\ub370 \ud658\uc728\uc774\ub791 \uc9c0\uc218\uac00 \ub610 \uc0ac\ub78c \uc2ec\uc7a5\uc744 \ub4e4\uc5c8\ub2e4 \ub1a8\ub2e4 \ud558\ub124\uc694 \u314b\u314b \n\uc8fc\uc2dd \ud310\uc5d0 \ub4e4\uc5b4\uc628 \uc774\uc0c1 \ub9e4\uc77c\uc774 \uace0\ub09c\uacfc \uc5ed\uacbd\uc758 \uc5f0\uc18d\uc778 \uac83 \uac19\uc2b5\ub2c8\ub2e4. \n\uadf8\ub798\ub3c4 \uc6b0\ub9ac \uc0b4\uc544\ub0a8\uc73c\ub824\uba74 \ud750\ub984\uc774\ub77c\ub3c4 \uc798 \uc77d\uc5b4\uc57c \ud558\ub2c8\uae4c \uc624\ub298\ub3c4 \uc5f4\uc2ec\ud788 \uc815\ub9ac\ud574\uc628 \ub0b4\uc6a9 \ud480\uc5b4\ubcf4\uaca0\uc2b5\ub2c8\ub2e4.\n\n[\uacbd\uc81c \uc774\uc288]\n\n\uc6d0\ud654 M2 \ud1b5\ud654\ub7c9) https://tradingeconomics.com/south-korea/money-supply-m2\n\ud55c\uad6d \uacbd\uae30\uc120\ud589\uc9c0\uc218 ) https://tradingeconomics.com/south-korea/leading-economic-index\n\ub2ec\ub7ec M2 \ud1b5\ud654\ub7c9) https://tradingeconomics.com/united-states/money-supply-m2\n\ubbf8\uad6d \uacbd\uae30\uc120\ud589\uc9c0\uc218 ) https://tradingeconomics.com/united-states/leading-economic-index\n\n\ud1b5\ud654\ub7c9\uacfc \uacbd\uae30\uc120\ud589\uc9c0\uc218\ub294 \uc704 \uc0ac\uc774\ud2b8\uc5d0\uc11c \ud655\uc778 \uac00\ub2a5\ud569\ub2c8\ub2e4. \uafb8\uc900\ud788 \uc6b0\uc0c1\ud5a5 \ucd94\uc138\uc785\ub2c8\ub2e4.\n\n<div class=\"img-box\"><img src=\"assets/usdkrw_chart.png?t=1793372187\" alt=\"\ud658\uc728 \ucc28\ud2b8\"></div>\n\n\ucc28\ud2b8\ub97c \ubcf4\uba74 \ucd5c\uadfc \ud658\uc728\uc774 1,500\uc6d0 \ub300\uc758 \uac70\ub300\ud55c \uace0\uc810\uc744 \ucc0d\uc740 \uc774\ud6c4 \uacc4\ub2e8\uc2dd\uc73c\ub85c \ucb48\uc6b1 \ub0b4\ub824\uc640\uc11c \ucd5c\uadfc\uc5d0\ub294 1,330\uc6d0 \ubd80\uadfc\uc5d0\uc11c \ubc14\ub2e5\uc744 \ub2e4\uc9c0\ub294 \ud750\ub984\uc744 \ubcf4\uc5ec\uc8fc\uace0 \uc788\uc2b5\ub2c8\ub2e4. \ucd5c\uadfc \uce94\ub4e4\uc744 \ubcf4\uba74 \uc0b4\uc9dd \ubc18\ub4f1\ud558\ub824\ub294 \uc2dc\ub3c4\uac00 \ubcf4\uc774\uae34 \ud558\ub294\ub370, \uc804\uccb4\uc801\uc778 \ub300\uc138 \ud558\ub77d \uc555\ub825\uc774 \uc6cc\ub099 \uc14c\ub358 \ud130\ub77c \ub2f9\ubd84\uac04\uc740 1,320\uc6d0 \uc120\uc744 \uac15\ub825\ud55c \uc9c0\uc9c0\uc120\uc73c\ub85c \ub450\uace0 \ub208\uce58 \ubcf4\uae30 \uc7a5\uc138\uac00 \uc774\uc5b4\uc9c8 \uac83 \uac19\uc544\uc694. \uc678\ud658\ub2f9\uad6d\uc758 \uacbd\uacc4\uac10\ub3c4 \uc788\uace0 \uc5f0\uc900\uc758 \uae08\ub9ac \uc815\ucc45 \ubd88\ud655\uc2e4\uc131\ub3c4 \uacb9\uccd0 \uc788\uc5b4\uc11c \ud658\uc728\uc774 \uac11\uc790\uae30 \uc704\ub85c \ud280\uc5b4 \uc624\ub97c \ub9ac\uc2a4\ud06c\ub294 \ud56d\uc0c1 \uc5f4\uc5b4\ub450\uace0 \ub9e4\ub9e4\ud558\ub294 \uac8c \uc548\uc804\ud560 \uac83 \uac19\uc2b5\ub2c8\ub2e4.\n\n<div class=\"img-box\"><img src=\"assets/finviz_map.png?t=1793372187\" alt=\"Finviz \uc139\ud130 \ub9f5\"></div>\n\n\ud540\ube44\uc988 \ub9f5\uc744 \ubcf4\uba74 \uc624\ub298 \uc2dc\uc7a5\uc740 \uc544\uc8fc \uadf8\ub0e5 \ud53c\ubc14\ub2e4\uac00 \ub530\ub85c \uc5c6\ub124\uc694... \ud14c\ud06c\ub791 \ubc18\ub3c4\uccb4 \uc139\ud130\uac00 \uc544\uc8fc \uc2dc\ubed8\uac8b\uac8c \ub450\ub4e4\uaca8 \ub9de\uace0 \uc788\ub294 \ubaa8\uc2b5\uc785\ub2c8\ub2e4. \uc5d4\ube44\ub514\uc544(-3.16%), AMD(-9.14%), \uc778\ud154(-27.89% \ud3ed\uc2a4...) \ub4f1 \ub300\ud615 \ubc18\ub3c4\uccb4\uc8fc\ub4e4\uc774 \uc5c4\uccad\ub09c \ud558\ub77d\uc138\ub97c \uae30\ub85d \uc911\uc774\uace0, \ub9c8\uc774\ud06c\ub85c\uc18c\ud504\ud2b8\ub098 \uad6c\uae00 \uac19\uc740 \ube45\ud14c\ud06c\ub4e4\ub3c4 \uc77c\uc81c\ud788 \uc57d\uc138\ub97c \ubcf4\uc600\uc2b5\ub2c8\ub2e4. \ubc18\uba74\uc5d0 \ud5ec\uc2a4\ucf00\uc5b4 \uc139\ud130\ub098 \uc77c\ubd80 \ud544\uc218\uc18c\ube44\uc7ac(\ucf54\uce74\ucf5c\ub77c, \uc6d4\ub9c8\ud2b8 \ub4f1)\ub294 \ucd08\ub85d\uc0c9 \ubd88\uc744 \ucf1c\uba70 \ubc29\uc5b4\uc801\uc778 \ud750\ub984\uc744 \ubcf4\uc5ec\uc8fc\uc5c8\uace0, \uc5d0\ub108\uc9c0\ub098 \uc18c\uc7ac \ucabd \uc77c\ubd80 \uc885\ubaa9\ub4e4\ub3c4 \uc120\ubc29\ud558\ub294 \ubaa8\uc2b5\uc774 \ub208\uc5d0 \ub771\ub2c8\ub2e4.\n\n\uc704 \ub0b4\uc6a9\uc744 \ubc14\ud0d5\uc73c\ub85c \uac70\uc2dc\uacbd\uc81c \uc0c1\ud669\uc744 \uc815\ub9ac\ud558\uc790\uba74, \uad6d\ub0b4\uc678 \ud1b5\ud654\ub7c9\uc774\ub098 \uacbd\uae30\uc120\ud589\uc9c0\uc218 \uac19\uc740 \uc9c0\ud45c\ub4e4\uc740 \uc7a5\uae30\uc801\uc73c\ub85c \uc6b0\uc0c1\ud5a5\ud558\uace0 \uc788\uc9c0\ub9cc \ub2f9\uc7a5\uc758 \uc2dc\uc7a5 \ubd84\uc704\uae30\ub294 \ub300\ud615 \uae30\uc220\uc8fc\ub4e4\uc758 \uc2e4\uc801 \ub178\uc774\uc988\uc640 AI \uac70\ud488\ub860 \ub54c\ubb38\uc5d0 \uc0c1\ub2f9\ud788 \uc5bc\uc5b4\ubd99\uc5b4 \uc788\uc2b5\ub2c8\ub2e4. \ubbf8\uc7a5\uc740 \ube45\ud14c\ud06c \uc2e4\uc801 \uc1fc\ud06c \uc5ec\ud30c\ub85c \ub098\uc2a4\ub2e5 \uc911\uc2ec\uc758 \ub9e4\ubb3c\uc774 \uc3df\uc544\uc9c0\uace0 \uc788\uace0, \uad6d\uc7a5 \uc5ed\uc2dc \ud658\uc728 \ubcc0\ub3d9\uc131\uacfc \uae08\ub9ac \uc778\ud558 \uc9c0\uc5f0 \uc6b0\ub824\uac00 \uacb9\uce58\uba74\uc11c \uc678\uc778 \uc218\uae09\uc774 \uc801\uadf9\uc801\uc73c\ub85c \ub4e4\uc5b4\uc624\uae30 \ud798\ub4e0 \ud658\uacbd\uc778 \uac83 \uac19\uc544\uc694. \n\n\uc774\ub7f4 \ub54c\uc77c\uc218\ub85d \ubb34\ub9ac\ud558\uac8c \ub300\ud615 \uae30\uc220\uc8fc \ucd94\uaca9 \ub9e4\uc218\ud558\uae30\ubcf4\ub2e4\ub294 \ucc28\ud2b8\uc5d0\uc11c \ubc14\ub2e5\uc744 \uc798 \ub2e4\uc9c0\uace0 \uac1c\ubcc4 \ubaa8\uba58\ud140\uc774 \uc788\ub294 \uc885\ubaa9\ub4e4 \uc704\uc8fc\ub85c \uc9e7\uac8c \uc2a4\uc719 \uad00\uc810\uc73c\ub85c \uc811\uadfc\ud558\ub294 \uac8c \ud6e8\uc52c \ud604\uba85\ud574 \ubcf4\uc785\ub2c8\ub2e4. \uc2dc\uc7a5\uc774 \uc6cc\ub099 \ubcc0\ub3d9\uc131\uc774 \ud06c\ub2c8\uae4c \uc190\uc808\uac00 \uaf49 \uc7a1\uace0 \uc9e7\uac8c \uba39\uace0 \ub098\uc624\ub294 \ud2b8\ub808\uc774\ub529 \uc804\ub7b5\uc73c\ub85c \uc0b4\uc544\ub0a8\uc544\ubd05\uc2dc\ub2e4 \u315c\u315c\n\n\n[\ud2b9\uc9d5\uc8fc \ubd84\uc11d]\n\n1. \uc0bc\uc131\ubc14\uc774\uc624\ub85c\uc9c1\uc2a4\n\n<div class=\"img-box\"><img src=\"assets/chart_207940.png?t=1793372187\" alt=\"\uc0bc\uc131\ubc14\uc774\uc624\ub85c\uc9c1\uc2a4 \ucc28\ud2b8\"></div>\nhttps://www.tradingview.com/symbols/KRX-207940/\n\n\uccab \ubc88\uc9f8 \uad6d\uc7a5 \uc885\ubaa9\uc740 \uc0bc\uc131\ubc14\uc774\uc624\ub85c\uc9c1\uc2a4\uc785\ub2c8\ub2e4. \ucd5c\uadfc \uc870\uc815\uc744 \uae54\ub054\ud558\uac8c \ub9c8\ubb34\ub9ac\ud558\uace0 135\ub9cc \uc6d0 \uc120\uc5d0\uc11c \ubc14\ub2e5\uc744 \ub2e4\uc9c4 \ub4a4\uc5d0, \ucd5c\uadfc \uac70\ub798\ub7c9\uc744 \ub300\uac70 \ub3d9\ubc18\ud558\uba74\uc11c \uc9c1\uc804 \uc800\ud56d\uc120\uc744 \uc2dc\uc6d0\ud558\uac8c \ub6ab\uc5b4\ubc84\ub9ac\ub294 \uc7a5\ub300\uc591\ubd09 \uace0\uac00 \ub9c8\uac10\uc774 \ub098\uc654\uc2b5\ub2c8\ub2e4. \uae30\uc220\uc801\uc73c\ub85c \ubcf4\uba74 MACD \uace8\ub4e0\ud06c\ub85c\uc2a4\uac00 \ubc1c\uc0dd\ud558\uace0 RSI\ub3c4 59.47\ub85c \uc6b0\uc0c1\ud5a5 \ubaa8\uba58\ud140\uc744 \uac15\ud558\uac8c \ubfdc\uc5b4\ub0b4\uace0 \uc788\uc5b4\uc11c \ucd94\uac00 \uc0c1\uc2b9 \uc5ec\ub825\uc774 \ub9e4\uc6b0 \ub192\uc544 \ubcf4\uc785\ub2c8\ub2e4. \uc77c\ubaa9\uad6c\ub984\ub300 \uc704\ub85c \uc548\ucc29\ud55c \ubaa8\uc2b5\ub3c4 \uc544\uc8fc \ub4e0\ub4e0\ud558\ub124\uc694. \uc9c4\uc785 \ud0c0\uc810\uc740 1,457,000\uc6d0 \ubd80\uadfc\uc758 \ub20c\ub9bc\ubaa9\uc744 \ub178\ub9ac\ub294 \uac8c \uc88b\uc544 \ubcf4\uc774\uace0, \uc190\uc808\uac00\ub294 ATR \ubc84\ud37c\ub97c \uac10\uc548\ud574\uc11c 1,375,000\uc6d0 \uc120\uc744 \uc774\ud0c8\ud558\uba74 \ub9ac\uc2a4\ud06c \uad00\ub9ac \ucc28\uc6d0\uc5d0\uc11c \uae54\ub054\ud558\uac8c \ubb3c\ub7c9\uc744 \ub358\uc9c0\ub294 \uac8c \uc548\uc804\ud560 \uac83 \uac19\uc2b5\ub2c8\ub2e4.\n\n2. \uc0bc\uc131SDI\n\n<div class=\"img-box\"><img src=\"assets/chart_006400.png?t=1793372187\" alt=\"\uc0bc\uc131SDI \ucc28\ud2b8\"></div>\nhttps://www.tradingview.com/symbols/KRX-006400/\n\n\ub450 \ubc88\uc9f8 \uad6d\uc7a5 \uc885\ubaa9\uc740 \uc0bc\uc131SDI\uc785\ub2c8\ub2e4. \ub2e8\uae30 \ubcc0\ub3d9\uc131\uc744 \uacaa\ub2e4\uac00 48\ub9cc 3\ucc9c \uc6d0\ub300 \uc800\uc810\uc744 \ucc0d\uace0\uc11c \ucd5c\uadfc \uc800\uc810\uc744 \ub192\uc5ec\uac00\uba70 \ubc18\ub4f1 \ud30c\ub3d9\uc744 \uc608\uc058\uac8c \uadf8\ub9ac\uace0 \uc788\uc2b5\ub2c8\ub2e4. 20\uc77c \uc774\ub3d9\ud3c9\uade0\uc120 \ubd80\uadfc\uc5d0\uc11c \uc9c0\uc9c0\ub825\uc744 \ud14c\uc2a4\ud2b8\ud558\uace0 \uc788\ub294 \uacfc\uc815\uc774\ub77c \ub9e4\uc218\ud558\uae30\uc5d0 \uc190\uc775\ube44\uac00 \uaf64 \uad1c\ucc2e\uc740 \uc790\ub9ac\ub97c \uc8fc\uace0 \uc788\ub124\uc694. RSI\ub3c4 51.79\ub85c \uc911\ub9bd \ubd80\uadfc\uc5d0\uc11c \uc2dc\uadf8\ub110\uc744 \uc704\ub85c \ud5a5\ud558\uace0 \uc788\uc9c0\ub9cc, MACD\ub294 \uc544\uc9c1 \ub2e8\uae30 \ub370\ub4dc\ud06c\ub85c\uc2a4 \ud63c\uc870\uc138\uac00 \uc0b4\uc9dd \uc11e\uc5ec \uc788\uc73c\ubbc0\ub85c \ud480\uc2dc\ub4dc \ubc15\uae30\ubcf4\ub2e4\ub294 \ubd84\ud560 \ub9e4\uc218\ub85c \uc811\uadfc\ud558\ub294 \uac8c \ud544\uc218\uc801\uc785\ub2c8\ub2e4. \ucd94\ucc9c \uc9c4\uc785 \ud0c0\uc810\uc740 532,000\uc6d0 \uc815\ub3c4\ub85c \uc7a1\uace0, 490,000\uc6d0 \ubd80\uadfc\uc758 \uc9c0\uc9c0\uc120\uc744 \uc190\uc808\uc120\uc73c\ub85c \uc7a1\uace0 \ub300\uc751\ud558\uba74 \ub9ac\uc2a4\ud06c \ub300\ube44 \uae30\ub300 \uc218\uc775\uc774 \uc3e0\uc3e0\ud560 \uac83\uc73c\ub85c \ubcf4\uc785\ub2c8\ub2e4.\n\n3. NVIDIA Corporation\n\n<div class=\"img-box\"><img src=\"assets/chart_NVDA.png?t=1793372187\" alt=\"NVIDIA Corporation \ucc28\ud2b8\"></div>\nhttps://www.tradingview.com/symbols/NASDAQ-NVDA/\n\n\uc138 \ubc88\uc9f8 \ubbf8\uc7a5 \uc885\ubaa9\uc740 \uc5d4\ube44\ub514\uc544\uc785\ub2c8\ub2e4. \uc54c\ud30c\ubcb3\uc744 \ube44\ub86f\ud55c \ube45\ud14c\ud06c\ub4e4\uc758 \uc2e4\uc801 \uc5ec\ud30c\uc640 AI \ud22c\uc790 \ube44\uc6a9 \uc6b0\ub824 \ub54c\ubb38\uc5d0 \ucd5c\uadfc \uc8fc\uac00\uac00 120\uc77c\uc120 \ubd80\uadfc\uae4c\uc9c0 \uaf64 \uae4a\uac8c \uc870\uc815\uc744 \ub9de\uc558\uc2b5\ub2c8\ub2e4. RSI\uac00 36.08\uae4c\uc9c0 \ub5a8\uc5b4\uc9c0\uba74\uc11c \uacfc\ub9e4\ub3c4 \uad6d\uba74\uc5d0 \ubc14\uc9dd \ub2e4\uac00\uac04 \uc0c1\ud0dc\uc778\ub370, \uc5ed\ubc30\uc5f4 \uc9c4\ud589 \uc911\uc774\uae34 \ud574\ub3c4 \ud575\uc2ec AI \uc778\ud504\ub77c \uc218\uc694\ub294 \uc5ec\uc804\ud788 \ud0c4\ud0c4\ud558\uae30 \ub54c\ubb38\uc5d0 \ub099\ud3ed \uacfc\ub300\uc5d0 \ub530\ub978 \uae30\uc220\uc801 \ubc18\ub4f1\uc774 \ub098\uc62c \ud0c0\uc774\ubc0d\uc774 \ub410\uc2b5\ub2c8\ub2e4. \uacf5\uaca9\uc801\uc73c\ub85c \uc804 \uc7ac\uc0b0\uc744 \ubc15\uae30\ubcf4\ub2e4\ub294 \ubd84\ud560 \ub9e4\uc218\ub85c \uc811\uadfc\ud574\uc57c \ud558\ub294 \uad6c\uac04\uc785\ub2c8\ub2e4. \ucd94\ucc9c \uc9c4\uc785\uac00\ub294 202.01\ub2ec\ub7ec \ubd80\uadfc\uc758 \ub20c\ub9bc\ubaa9 \ud0c0\uc810\uc73c\ub85c \ubcf4\uace0, 195.81\ub2ec\ub7ec\ub97c \uc190\uc808\uc120\uc73c\ub85c \uc7a1\uace0 \uc774\ud0c8\ud558\uba74 \uc7a0\uc2dc \ub3c4\ub9dd\uce58\ub294 \uac8c \ud604\uba85\ud574 \ubcf4\uc785\ub2c8\ub2e4.\n\n4. Tesla, Inc.\n\n<div class=\"img-box\"><img src=\"assets/chart_TSLA.png?t=1793372187\" alt=\"Tesla, Inc. \ucc28\ud2b8\"></div>\nhttps://www.tradingview.com/symbols/NASDAQ-TSLA/\n\n\ub124 \ubc88\uc9f8 \ubbf8\uc7a5 \uc885\ubaa9\uc740 \ud14c\uc2ac\ub77c\uc785\ub2c8\ub2e4. \uc804\ubc18\uc801\uc778 \uae30\uc220\uc8fc \ubd84\uc704\uae30\uac00 \ub098\ub77d\uc744 \uac00\ub294 \uc640\uc911\uc5d0\ub3c4 \ud14c\uc2ac\ub77c\ub294 \ub2e8\uae30 \ubc15\uc2a4\uad8c \uc0c1\ub2e8\uc5d0\uc11c \ubc84\ud168\uc8fc\uba74\uc11c \uc6d4\uc2a4\ud2b8\ub9ac\ud2b8\uc758 \ud0c4\ud0c4\ud55c \uac70\ub798\ub300\uae08\uc744 \uc99d\uba85\ud558\uace0 \uc788\uc2b5\ub2c8\ub2e4. RSI\ub3c4 59.9\ub85c \uacfc\ub9e4\uc218\uc5d0 \ube60\uc9c0\uc9c0 \uc54a\uc740 \ucc44 \uac74\uac15\ud558\uac8c \uc0c1\ud5a5 \ubaa8\uba58\ud140\uc744 \uc720\uc9c0\ud558\uace0 \uc788\uace0 MACD\ub3c4 \uace8\ub4e0\ud06c\ub85c\uc2a4\ub97c \uc9c0\ud0a4\ub294 \uc911\uc785\ub2c8\ub2e4. \ub2e8\uae30 \uace0\uc810\uc744 \ud130\uce58\ud558\uace0 \uc18c\ud3ed \uc870\uc815\ubc1b\ub294 \uc9c0\uae08\uc774 \uc624\ud788\ub824 \uae30\ud68c\uc77c \uc218 \uc788\uc5b4\uc694. 390.22\ub2ec\ub7ec \ubd80\uadfc\uc744 \ub20c\ub9bc\ubaa9 \uc9c0\uc9c0 \ud0c0\uc810\uc73c\ub85c \uc7a1\uace0, 375.90\ub2ec\ub7ec\ub97c \uc190\uc808\uc120\uc73c\ub85c \uc124\uc815\ud574\uc11c \uce7c\uac19\uc774 \ub9ac\uc2a4\ud06c\ub97c \uad00\ub9ac\ud558\ub294 \ud2b8\ub808\uc774\ub529\uc774 \uc88b\uc544 \ubcf4\uc785\ub2c8\ub2e4.\n\n\n\uc694\uc998 \uc7a5\uc138\uac00 \uc9c0\uc218\ub9cc \ubbff\uace0 \uac00\uae30\uc5d0\ub294 \uc591\ucabd \ub2e4 \ub108\ubb34 \ub9e4\uc6b4\ub9db\uc774\ub77c \uc815\uc2e0 \ubc14\uc9dd \ucc28\ub824\uc57c \ud569\ub2c8\ub2e4. \n\uadf8\ub798\ub3c4 \uc790\ub9ac \uc608\uc058\uac8c \ub098\uc624\ub294 \uc560\ub4e4\ub9cc \uace8\ub77c\uc11c \uc9e7\uac8c \ubc1c \ube7c\uace0 \ub098\uc624\uba74 \ub610 \uba39\uc744 \uc790\ub9ac\ub294 \uc8fc\ub2c8\uae4c \ub108\ubb34 \uc0c1\uc2ec\ud558\uc9c0 \ub9c8\uc2dc\uace0\uc694.\n\ub0b4\uc77c\ub3c4 \uc0b4\uc544\ub0a8\uc544\uc11c \uc4f8\ub9cc\ud55c \uc815\ubcf4\ub4e4 \uac00\uc9c0\uace0 \ucc3e\uc544\uc624\uaca0\uc2b5\ub2c8\ub2f9. \n\n\uc77d\uc5b4\uc8fc\uc154\uc11c \uac10\uc0ac\ud569\ub2c8\ub2e4. \ub057";
             navigator.clipboard.writeText(textToCopy).then(() => {
                 const btn = document.querySelector('.copy-btn');
                 btn.innerText = '✅ 복사 완료!';
